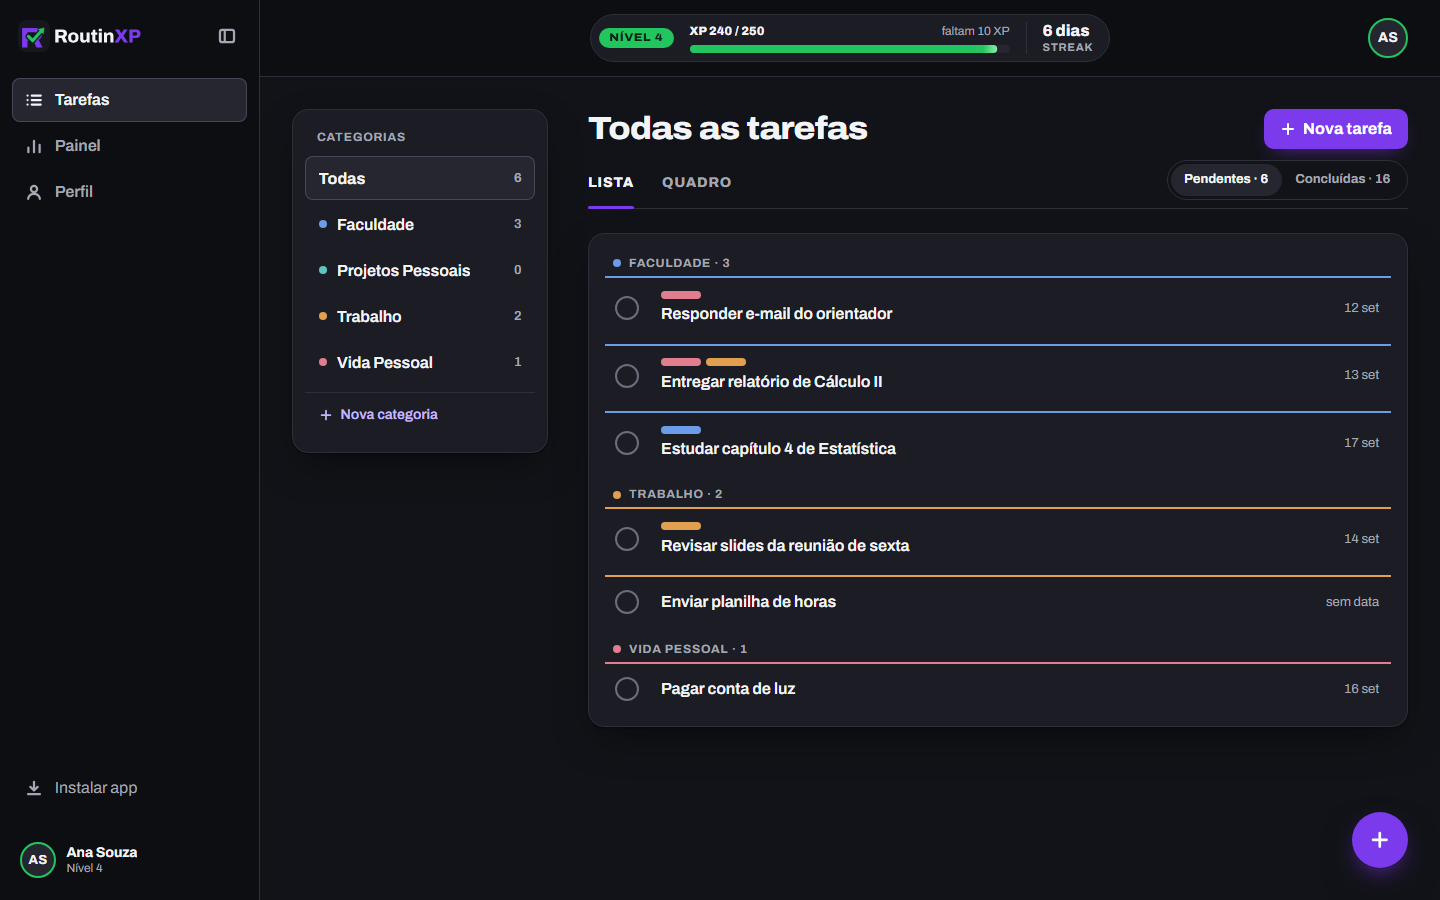
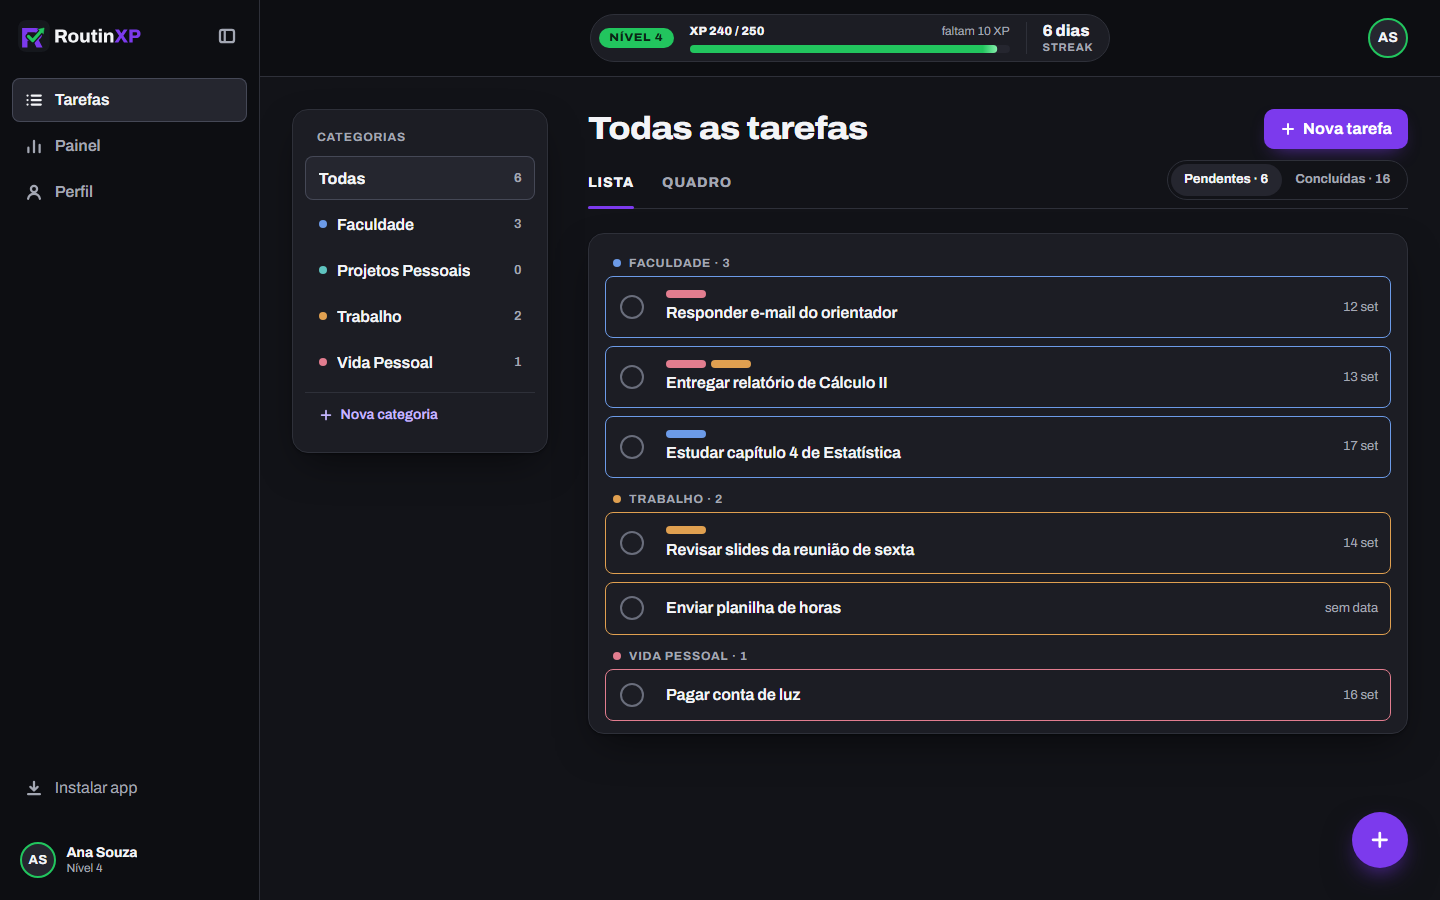
Contorno completo na cor da categoria em cada card de tarefa
- Borda de 1px nos quatro lados, cantos de 8px, 0,5rem entre os cards
- Concluídas com o contorno a 40%
- DESIGN.md, brief de Tarefas e PROGRESS atualizados

Changed region(s): [[0.4062, 0.3111, 0.9688, 0.6844], [0.4062, 0.7156, 0.9375, 0.8089], [0.9375, 0.7467, 0.9688, 0.7778]]

diff --git a/src/pages/tarefas.css b/src/pages/tarefas.css
@@ -439,20 +439,21 @@
   list-style: none;
 }
 
-/* Cada tarefa abre com uma borda fina na cor da categoria: marca onde uma termina
-   e a outra começa (pedido do usuário, 2026-09-11). */
+/* Cada tarefa é um card com contorno fino na cor da categoria, nos quatro lados:
+   marca onde uma termina e a outra começa (pedido do usuário, 2026-09-11). */
 .linhas > .linha {
-  border-top: 2px solid var(--cor-cat, var(--rule));
-  border-radius: 0 0 8px 8px;
+  padding-left: 0.25rem;
+  border: 1px solid var(--cor-cat, var(--rule));
+  border-radius: 8px;
 }
 
 .linhas > .linha + .linha {
-  margin-top: 0.35rem;
+  margin-top: 0.5rem;
 }
 
-/* Concluída: a borda recua junto com o resto da linha. */
+/* Concluída: o contorno recua junto com o resto do card. */
 .linhas > .linha[data-feita='true'] {
-  border-top-color: color-mix(in oklab, var(--cor-cat, var(--rule)) 40%, transparent);
+  border-color: color-mix(in oklab, var(--cor-cat, var(--rule)) 40%, transparent);
 }
 
 .linha {

diff --git a/DESIGN.md b/DESIGN.md
@@ -452,7 +452,7 @@ A cool, near-black neutral stack with two saturated accents whose roles never ov
 
 **The Neutral Error Rule.** Errors are not red. An error is a notice on `panel-2` with a small pill tag in inverted neutrals (ink fill, ground text) reading "ERRO", followed by a plain-language sentence. This keeps the palette to two accents and keeps failure unalarming. The same holds for due dates: today and overdue get Ink and weight, never red. It holds for reduced rewards: when a completion earns less than usual (task created under 5 minutes ago, the daily XP cap reached or partly reached), an info toast names the reason in a plain sentence, in neutrals, with no tag and no red. And it holds for a streak at risk: the reminder is a Panel strip with a Muted clock, never an alarm. Losing the connection is the same: the offline strip is a Panel strip with a Muted no-connection icon and a plain sentence, no tag, no red.
 
-**The Dot-Only Category Rule.** User-chosen category colors are data. They appear as an 8px round dot beside the category name (rail, chips, row category line, Lista group headings, the Painel's category bars and timeline items), never as fills, text color, bars or backgrounds, and never without the name nearby. Two exceptions: the color picker, where the swatch itself is the choice and fills a 36px circle; and the task row's 2px top border in its category color (user request, 2026-09-11), which marks where one task ends and the next begins, in Lista and Quadro alike. On completed rows the top border fades to 40% of the category color, receding with the rest of the row. **Tags** have their own shape, always rectangular, so a tag is never read as a category (categories are always round dots). On a task row tags are **labels, Trello-style** (user request, 2026-09-11): a row of 4px-radius labels above the title. Named mode: a 1.375rem pill, 0 0.5rem padding, 0.75rem at 700 in Ink on the tag color mixed 48% into Panel (55% on hover, the most that keeps Ink above 4.5:1 on all eight colors), ellipsized at 12rem. Color-only mode: a 2.5rem by 0.5rem bar in the full tag color. Clicking any label switches every label between the two modes (saved per browser); it never opens the task. Completed rows show labels at 55% opacity. In the task dialog and the Perfil list a tag is a 0.75rem swatch with 3px corners beside its name.
+**The Dot-Only Category Rule.** User-chosen category colors are data. They appear as an 8px round dot beside the category name (rail, chips, row category line, Lista group headings, the Painel's category bars and timeline items), never as fills, text color, bars or backgrounds, and never without the name nearby. Two exceptions: the color picker, where the swatch itself is the choice and fills a 36px circle; and the task row's 1px outline in its category color on all four sides (user request, 2026-09-11), which marks where one task ends and the next begins, in Lista and Quadro alike. On completed rows the outline fades to 40% of the category color, receding with the rest of the row. **Tags** have their own shape, always rectangular, so a tag is never read as a category (categories are always round dots). On a task row tags are **labels, Trello-style** (user request, 2026-09-11): a row of 4px-radius labels above the title. Named mode: a 1.375rem pill, 0 0.5rem padding, 0.75rem at 700 in Ink on the tag color mixed 48% into Panel (55% on hover, the most that keeps Ink above 4.5:1 on all eight colors), ellipsized at 12rem. Color-only mode: a 2.5rem by 0.5rem bar in the full tag color. Clicking any label switches every label between the two modes (saved per browser); it never opens the task. Completed rows show labels at 55% opacity. In the task dialog and the Perfil list a tag is a 0.75rem swatch with 3px corners beside its name.
 
 **The Swappable Theme Rule.** Components read colors only through the `:root` custom properties, effects included (glows, washes, halos, backdrop). A new theme is a new set of variable values, not new component CSS. The only color literals outside `:root` are the category swatch values, which are user data.
 
@@ -593,7 +593,7 @@ Lives on the Tarefas page only.
 - **Mobile (60rem and below):** the whole rail becomes one horizontally scrolling row that bleeds to the screen edges. Categories are 40px pill chips (Panel fill, 1px Rule border, dot, name, count); the selected chip swaps its border to Rule Strong and gains Panel Two, still neutral; the pencil appears only beside the selected chip. "+ Nova categoria" becomes a chip with a 1px dashed Rule Strong border at the end of the row.
 
 ### List Rows (tasks)
-Rows are not boxed. Each row opens with a **2px top border in its category color** (Rule when the category is unknown), and rows sit 0.35rem apart; the row's corners are square on top and 8px round at the bottom, so the hover wash hangs from the colored line. A row is a three-column grid:
+Each row is a card outlined by a **1px border in its category color on all four sides** (Rule when the category is unknown), 8px radius, no shadow, 0.25rem left padding; rows sit 0.5rem apart inside the group panel. The hover wash fills the card. A row is a three-column grid:
 1. A 44px completion target holding a 24px circle with a 2px Check Ring ring. Hovering the target turns the ring and the tick green.
 2. A middle column: the task's **tag labels** on top (0.3rem apart, see the Dot-Only rule for their two modes; each label is its own button that toggles the mode), then a text button (opens edit) with the Row Title and a meta line in Meta muted (the category's 8px dot and name, only when the view mixes categories). The tag names also join the edit button's accessible name ("Editar …, Tags: …"). The meta line is omitted when it would hold only the date. The description never shows in the row.
 3. A right column: the **due date** for pending rows, the **XP label** for completed rows.
@@ -701,7 +701,7 @@ A Panel Two circle with a 2px green ring and initials at 700: 48px in a profile 
 ### Don't:
 - **Don't** add a third accent, or use red for errors, overdue dates, deletion or a streak at risk.
 - **Don't** use purple, a colored side stripe, or the category color to mark a selected item or the current page.
-- **Don't** fill, border or tint surfaces or chart bars with category colors. The one border exception is the task row's 2px top rule (user override, 2026-09-11), faded to 40% on completed rows.
+- **Don't** fill, border or tint surfaces or chart bars with category colors. The one border exception is the task row's 1px category-colored outline (user override, 2026-09-11), faded to 40% on completed rows; it is a border only, never a shadowed nested card.
 - **Don't** draw a tag as a round dot: round dots are categories, tags are rectangular (labels, bars, swatches).
 - **Don't** nest a shadowed card inside a panel.
 - **Don't** use hard or offset shadows; the only shadows are the soft lift, the violet glows, the focus halo, the selected inset, the swatch ring and the transient level-up pulse.

diff --git a/.impeccable/surfaces/src-pages-tarefas-jsx.md b/.impeccable/surfaces/src-pages-tarefas-jsx.md
@@ -15,7 +15,7 @@ Main app surface `/`: category-grouped task list with Pendentes/Concluídas filt
 - Top bar (shell): the level meter (NÍVEL badge + XP bar + streak) in a pill, always centered; avatar with account menu at the right. The wordmark lives in the side menu.
 - Left rail: CATEGORIAS, "Todas" plus each category with its dot and pending count, the selected item marked with the neutral selection (Panel Two + Rule Strong inset, never purple), edit on hover, "+ Nova categoria" once at the bottom.
 - Main: a title row (category name or "Todas as tarefas" at the left, compact "+ Nova tarefa" at the right), LISTA | QUADRO underline tabs, a Pendentes/Concluídas segmented filter in Lista. A FAB opens the new-task dialog at every width.
-- Rows (user request 2026-09-11): a 2px top border in the category color on every task row (faded on completed rows); tags as rings on the meta line; description and tag names only inside the task dialog. Tags are managed in Perfil.
+- Rows (user request 2026-09-11): every task row is a card with a 1px outline in its category color on all four sides, 0.5rem apart (faded on completed rows); tags as Trello-style labels above the title (name or color-only, toggled by clicking a label); the description only inside the task dialog. Tags are managed in Perfil.
 - Quadro: two panels, Pendentes and Concluídas. Dragging a pending row into Concluídas completes it; no dragging back (v1 decision).
 - Mobile: the level meter wraps to a second top-bar row, the rail becomes scrollable chips, the Quadro columns scroll-snap horizontally, a purple FAB replaces "+ Nova tarefa".
 

diff --git a/PROGRESS.md b/PROGRESS.md
@@ -117,6 +117,7 @@ Feito:
   - Clicar em qualquer etiqueta alterna todas entre os dois modos, e a escolha fica salva no navegador (`src/lib/tagsCompactas.js`). O clique não abre a tarefa.
 - No formulário e no Perfil, a tag é um quadradinho de cor (a categoria continua sendo ponto redondo).
 - Página de Perfil centralizada na área de conteúdo, com o menu aberto ou recolhido (desvio medido: 0 px).
+- A borda de cima virou **contorno completo**: cada tarefa é um card com 1px na cor da categoria nos quatro lados, cantos de 8px, 0,5rem entre os cards. Nas concluídas o contorno fica a 40%.
 - DESIGN.md atualizado. Capturas `etiquetas-*.png` em `.impeccable/review/tags/` e `perfil-centralizado.png` em `.impeccable/review/ajustes/`.
 
 ### 2026-09-11, Claude Code (Opus 5): descrição, tags e borda de categoria
